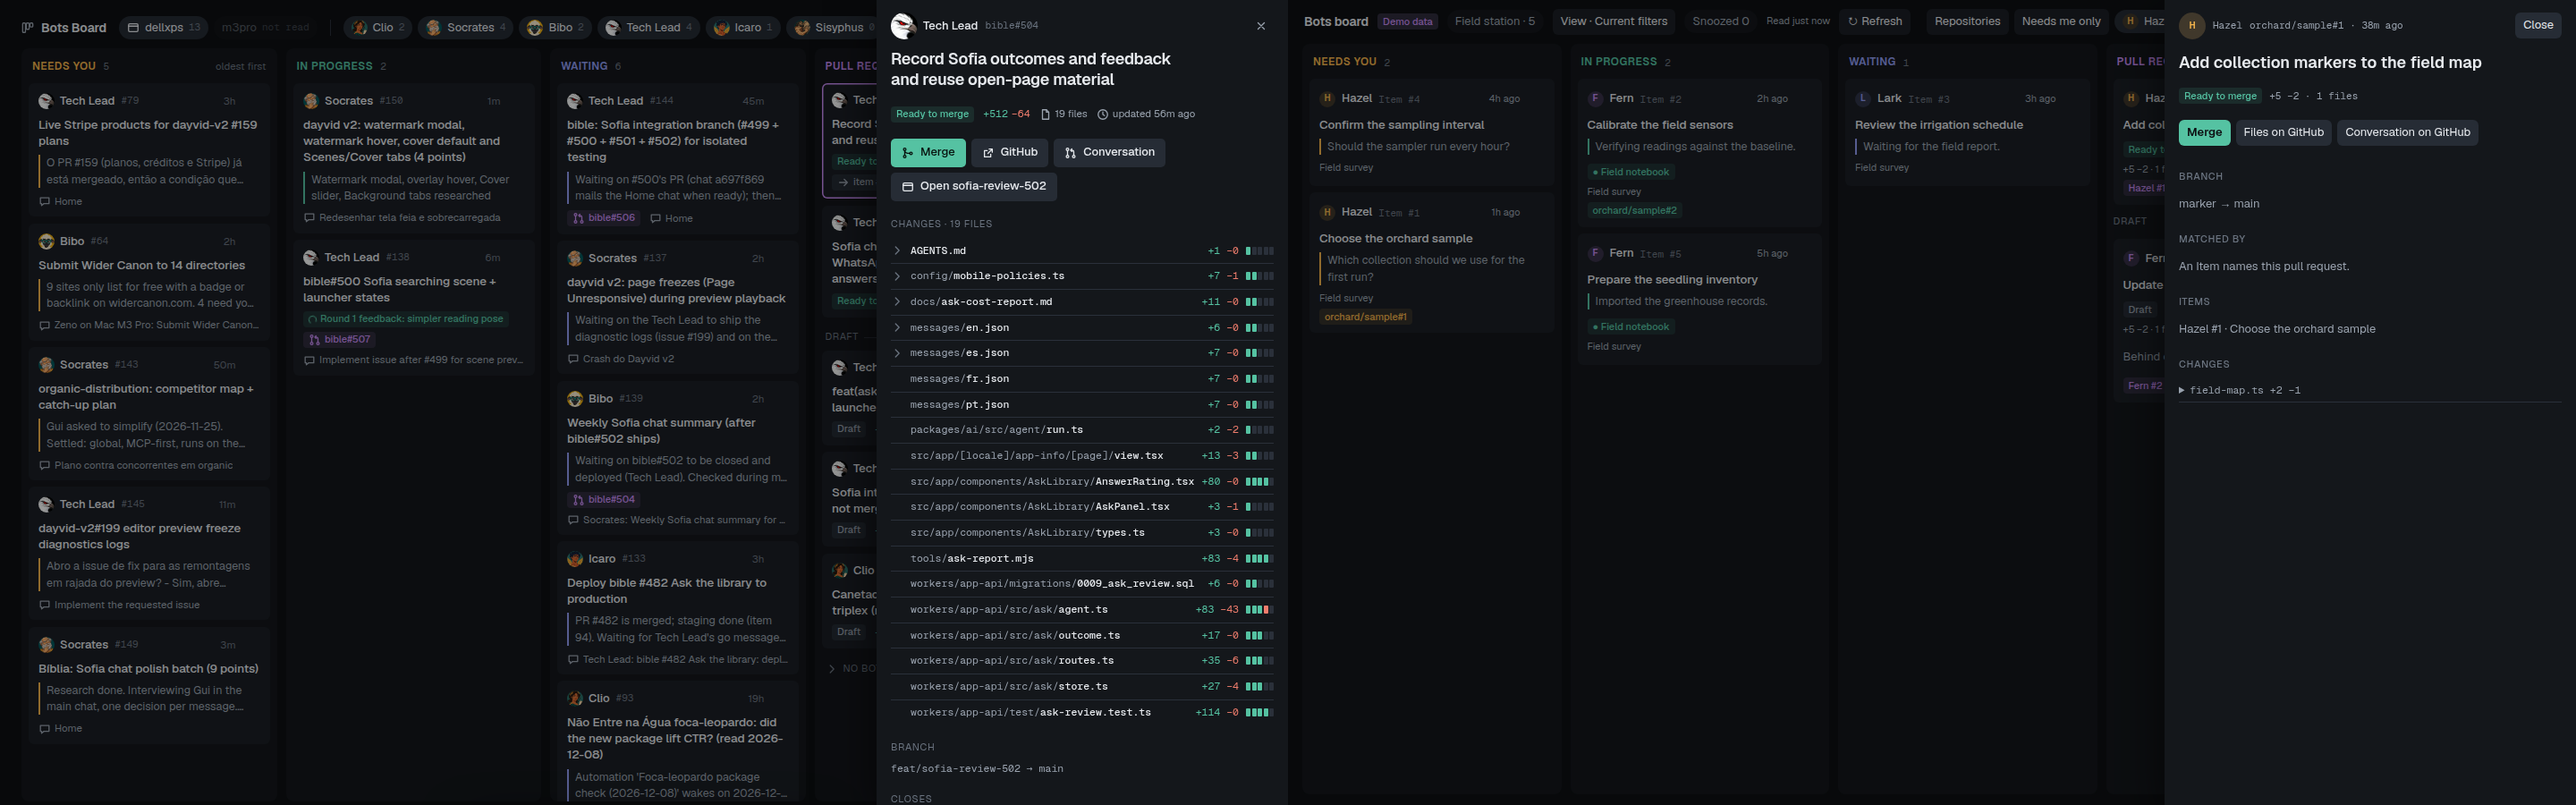
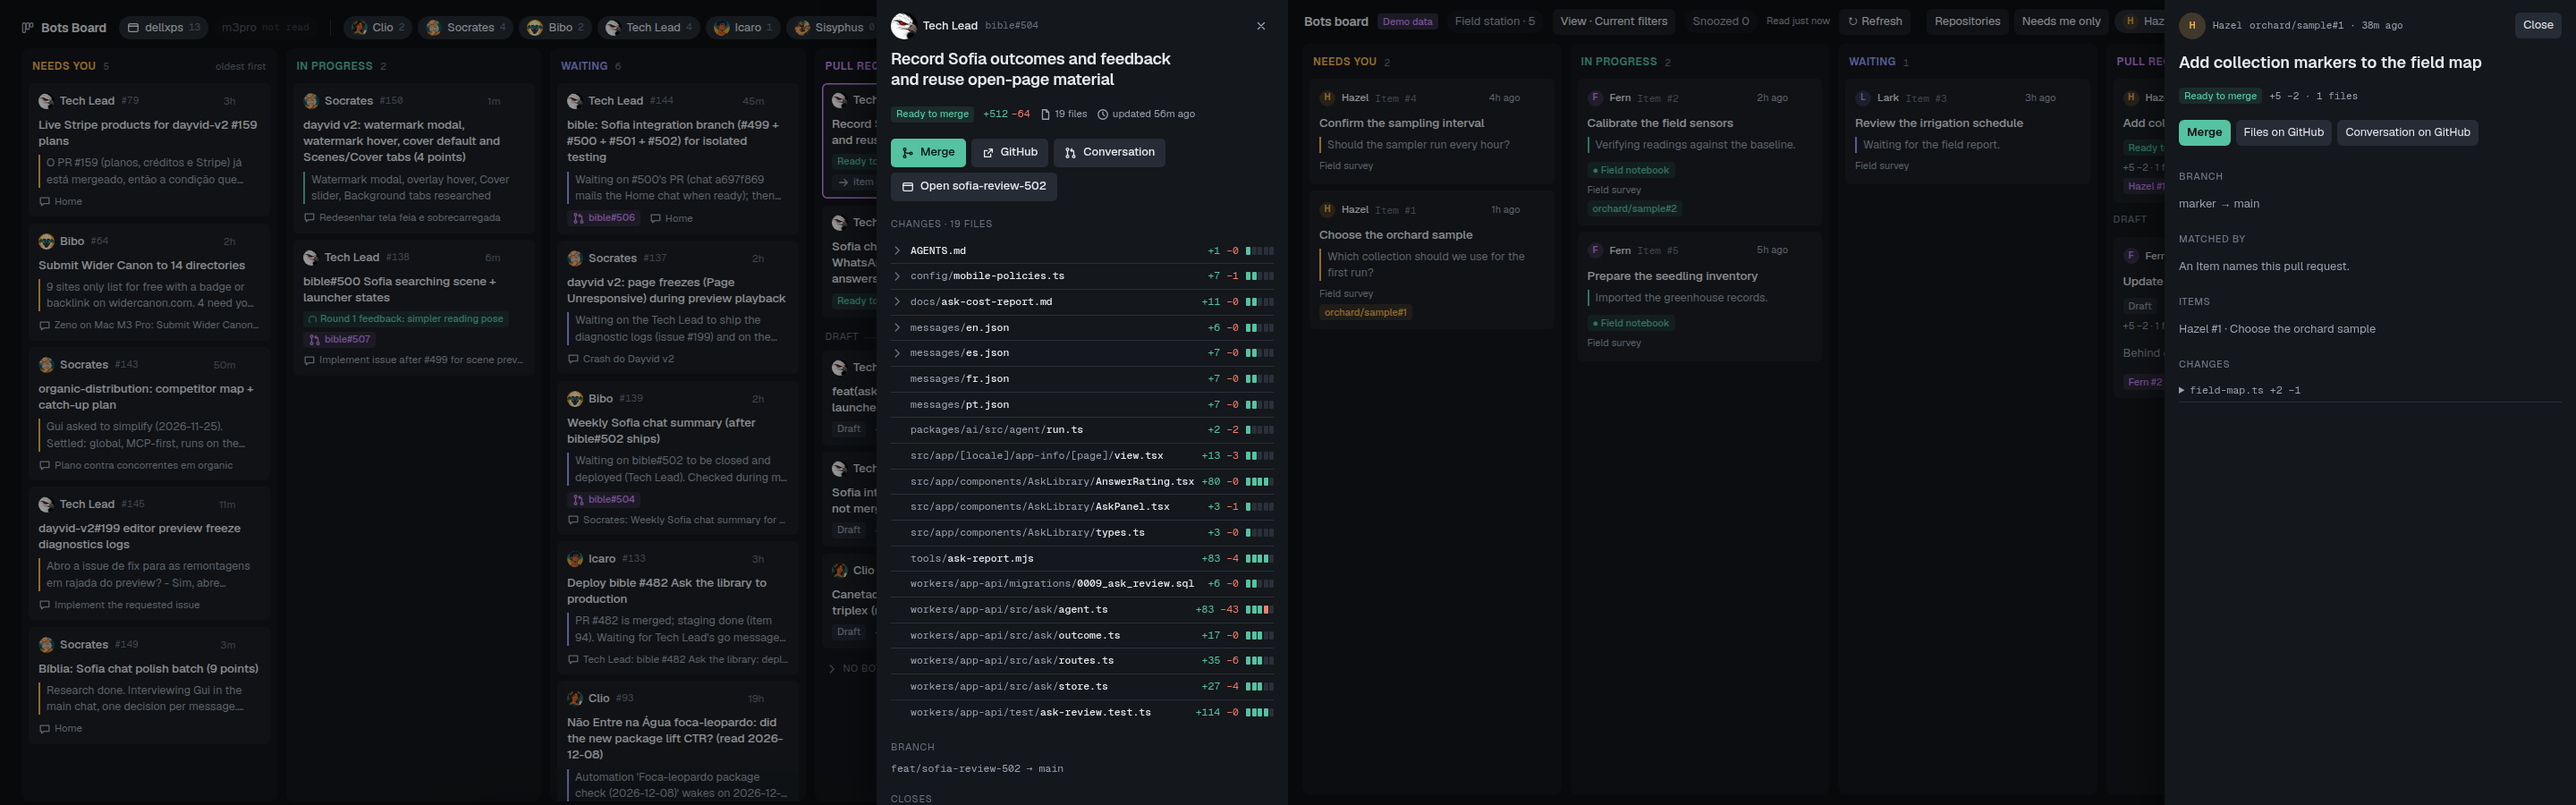
Match card bylines and expose item actions on small screens

diff --git a/editor/styles.css b/editor/styles.css
@@ -199,9 +199,6 @@ main {
   display: flex;
   flex-direction: column;
 }
-.lane[hidden] {
-  display: none;
-}
 .lane > h2 {
   display: flex;
   align-items: center;
@@ -586,7 +583,7 @@ header > * {
   gap: 7px;
 }
 .meta small:first-of-type {
-  font-size: 13px;
+  font-size: 11.5px;
   font-weight: 500;
 }
 .quote {
@@ -604,6 +601,11 @@ header > * {
   padding: 0;
   background: transparent;
   color: var(--dim);
+}
+@media (max-width: 720px) {
+  .more {
+    opacity: 1;
+  }
 }
 article:hover .more,
 article:focus-within .more {
